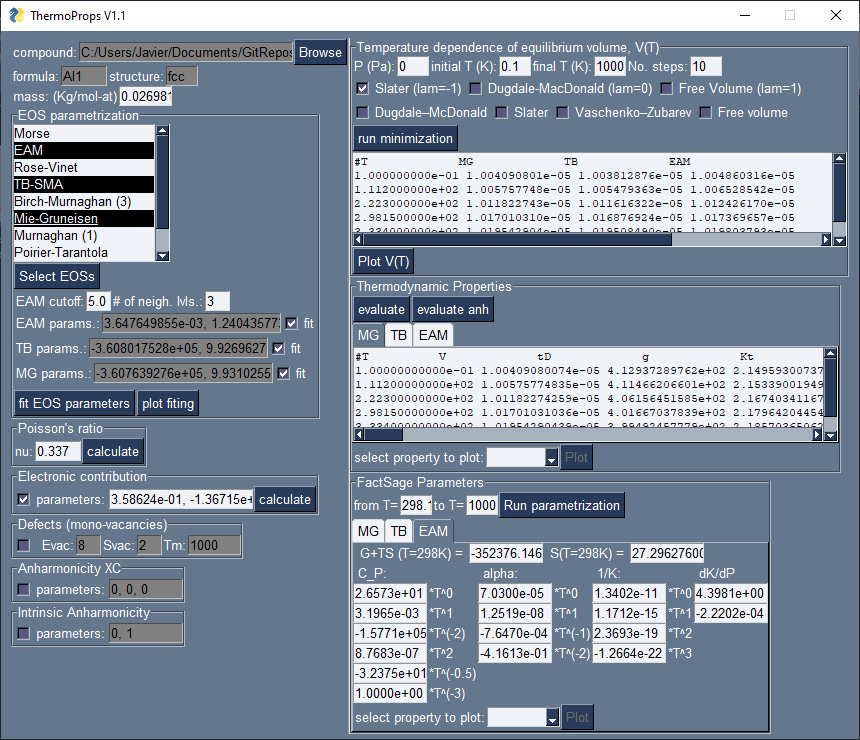
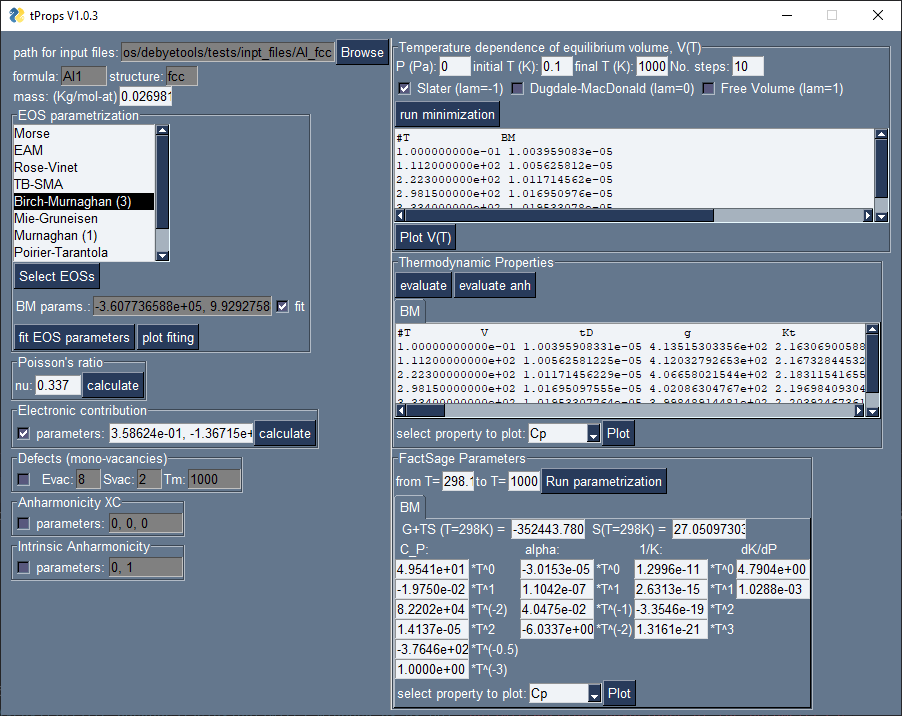
update docs

diff --git a/debyetools/tpropsgui/gui.py b/debyetools/tpropsgui/gui.py
@@ -37,7 +37,7 @@ def gui() -> object:
     layout = layout(EOS_str_lst)
 
     #### Window creation
-    window1, window2, window3,window4,window5, window7 = sg.Window('ThermoProps V1.1', layout=layout, finalize=True), None, None, None, None, None
+    window1, window2, window3,window4,window5, window7 = sg.Window('tProps V1.0.3', layout=layout, finalize=True), None, None, None, None, None
 
     #### loop to wait for user action
     all_props={}

diff --git a/debyetools/tpropsgui/layout.py b/debyetools/tpropsgui/layout.py
@@ -67,7 +67,7 @@ def layout(EOS_str_lst):
 
     lo_intanh = [[elmt.Chk('parameters:','intanh',disabled=True),elmt.dI('','p_intanh',10)]]
 
-    lo_left = [[elmt.T('compound:','compound'),
+    lo_left = [[elmt.T('path for input files:','compound'),
                 elmt.dI('','compound',30),
                 elmt.dI(txt='', key='FILEBROWSE_', w=0, disabled=False,enable_events=True,visible=False),
                 elmt.Br('compound')],

diff --git a/docs/source/api/examples.rst b/docs/source/api/examples.rst
@@ -136,7 +136,7 @@ The same calculations as the previous example were carried out using `tprops` GU
 .. figure::  ./images/Al_fcc_example.png
    :align:   center
 
-   `tprops v1.1`
+   `tprops v1.0.3`
 
 Genetic algorithm to fit Cp to experimental data.
 =================================================

diff --git a/docs/source/api/gui.rst b/docs/source/api/gui.rst
@@ -35,7 +35,7 @@ The interface:
 .. figure::  ./images/tprops_gui.png
    :align:   center
 
-   tProps v1.1
+   tProps v1.0.3
 
 
 EOS Parametrization
